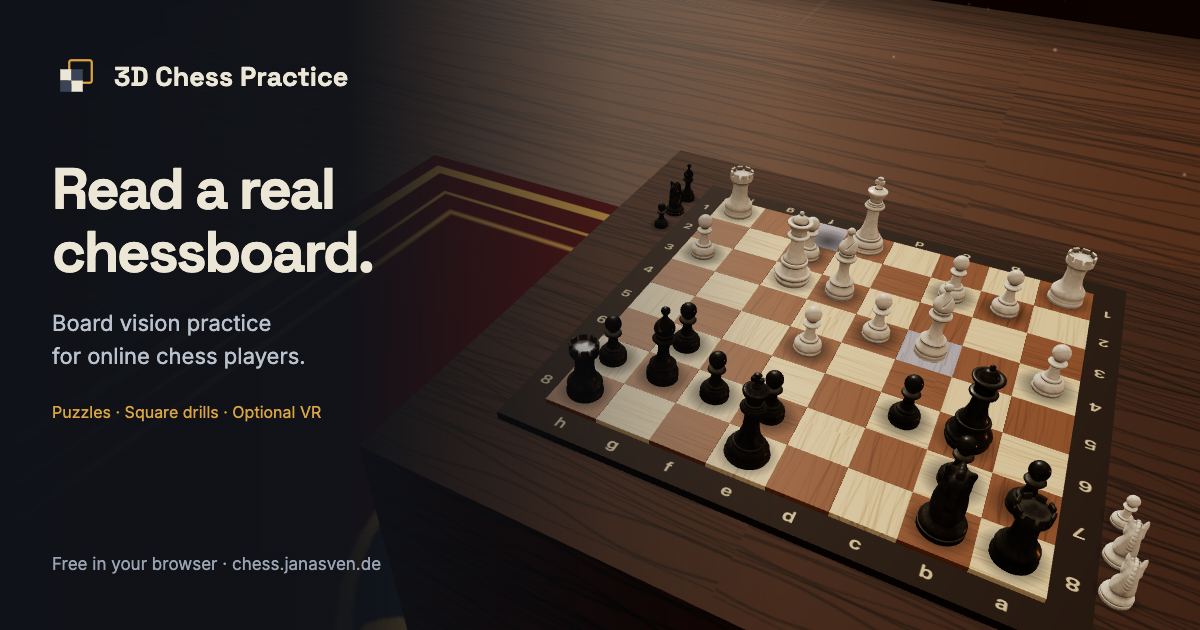
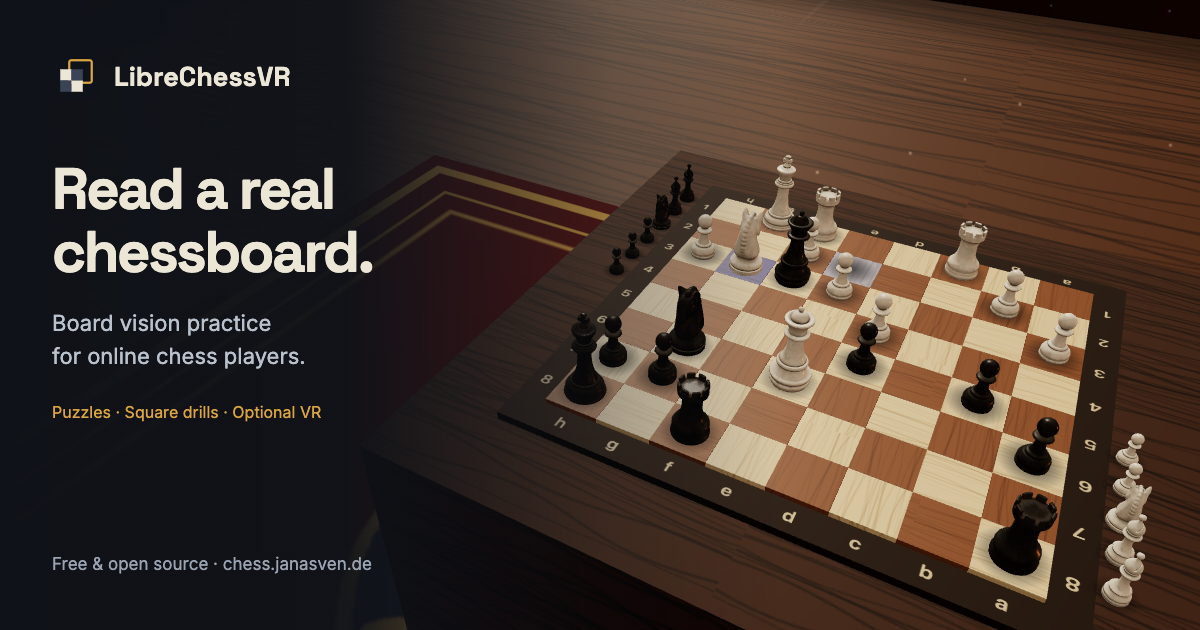
Release LibreChessVR under the MIT license
Rename the public branding, add source links and contributor setup, and credit bundled and historical third-party assets. Refresh the screenshots and sharing image. Preload the Node Response implementation before the stream watchdog test starts.

diff --git a/index.html b/index.html
@@ -3,17 +3,17 @@
 <head>
 <meta charset="utf-8">
 <meta name="viewport" content="width=device-width, initial-scale=1">
-<title>3D Chess Practice — board vision for online players</title>
+<title>LibreChessVR — board vision for online players</title>
 <meta name="description" content="A free 3D board vision practice tool for online chess players who find real boards harder to read. Puzzles, square drills and a free board. No account or headset needed.">
 <link rel="canonical" href="https://chess.janasven.de/">
 <meta property="og:type" content="website">
-<meta property="og:title" content="3D Chess Practice">
+<meta property="og:title" content="LibreChessVR">
 <meta property="og:description" content="Comfortable online, but a real board feels unfamiliar? Practice reading chess positions in 3D. Free in your browser, with optional VR.">
 <meta property="og:url" content="https://chess.janasven.de/">
 <meta property="og:image" content="https://chess.janasven.de/assets/brand/preview.png">
 <meta property="og:image:width" content="1200">
 <meta property="og:image:height" content="630">
-<meta property="og:image:alt" content="3D Chess Practice showing a chessboard from a seated perspective">
+<meta property="og:image:alt" content="LibreChessVR showing a chessboard from a seated perspective">
 <meta name="twitter:card" content="summary_large_image">
 <link rel="icon" href="assets/brand/mark.svg" type="image/svg+xml">
 <link rel="manifest" href="manifest.webmanifest">
@@ -94,14 +94,14 @@
 </head>
 <body>
 <div id="launch" hidden>
-  <img src="assets/brand/wordmark.svg" alt="3D Chess Practice — read a real chessboard">
+  <img src="assets/brand/wordmark.svg" alt="LibreChessVR — read a real chessboard">
   <p>For online chess players who find real boards harder to read. Practice puzzles and squares from a seated view.</p>
   <button id="enter" class="primary big">Enter VR</button>
   <button id="setup" class="link">Practice without VR</button>
 </div>
 <div id="ui">
-  <div class="brand"><img src="assets/brand/mark.svg" alt=""><h1>3D Chess Practice</h1></div>
-  <p class="tagline">Get comfortable reading a real board.</p>
+  <div class="brand"><img src="assets/brand/mark.svg" alt=""><h1>LibreChessVR</h1></div>
+  <p class="tagline">Board vision practice for online chess players.</p>
   <p class="intro">A 3D board vision practice tool for online chess players who find physical boards harder to read.</p>
 
   <button id="enterSide" class="primary" hidden>Enter VR</button>
@@ -196,7 +196,8 @@
     </div>
   </div>
 
-  <p class="hint">A small, free practice project. Puzzles come from Lichess; your practice results stay in this browser.</p>
+  <p class="hint">A small, free, open-source practice project. Puzzles come from Lichess; your practice results stay in this browser.</p>
+  <p class="hint"><a href="https://github.com/comino/LibreChessVR" target="_blank" rel="noopener">Source on GitHub</a> · <a href="https://github.com/comino/LibreChessVR/blob/main/LICENSE" target="_blank" rel="noopener">MIT license</a> · <a href="https://github.com/comino/LibreChessVR/blob/main/THIRD_PARTY_NOTICES.md" target="_blank" rel="noopener">Credits</a></p>
 </div>
 <script type="module" src="src/main.js"></script>
 </body>

diff --git a/test/test.js b/test/test.js
@@ -87,10 +87,12 @@ assert.equal(moveToSpeech(mv('p', 'e8', 'np', 'e8=N+', { promotion: 'n' })), 'Pa
 
 // --- stream watchdog: silent stream -> 'Stream stalled'; data keeps it alive; abort stays AbortError ---
 const enc = new TextEncoder()
+// Node loads its fetch implementation lazily. Do that before the 80 ms watchdog starts.
+const StreamResponse = globalThis.Response
 function fakeStream(chunks, everyMs) {  // sends chunks every everyMs, then stays open silently
   globalThis.fetch = async (url, { signal }) => {
     if (signal.aborted) throw signal.reason                // like real fetch
-    return new Response(new ReadableStream({
+    return new StreamResponse(new ReadableStream({
     start(c) {
       let i = 0
       const t = setInterval(() => { if (i < chunks.length) c.enqueue(enc.encode(chunks[i++])) }, everyMs)

diff --git a/sw.js b/sw.js
@@ -1,7 +1,7 @@
-// 3D Chess Practice service worker. App files: network-first (current version when online,
+// LibreChessVR service worker. App files: network-first (current version when online,
 // the cached copy offline) — never mixes old and new modules. Versioned CDN modules and fonts:
 // cache-first (their URLs change when their content does). lichess API calls are never cached.
-const CACHE = 'parallax-v19'
+const CACHE = 'parallax-v20'
 const CDN = /(^|\.)(cdn\.jsdelivr\.net|fonts\.googleapis\.com|fonts\.gstatic\.com)$/
 
 self.addEventListener('install', () => self.skipWaiting())

diff --git a/src/navigation.js b/src/navigation.js
@@ -148,7 +148,7 @@ export class Navigation {
         break
     }
     this.show({ id: this.stack.map(r => r.key || r.id).join('/'), title: route.title || TITLES[route.id],
-      path: this.stack.slice(0, -1).map(r => r.title || TITLES[r.id]).join(' / ') || '3D CHESS PRACTICE',
+      path: this.stack.slice(0, -1).map(r => r.title || TITLES[r.id]).join(' / ') || 'LIBRECHESSVR',
       sub, actions, columns,
       context: `${c.label}${c.timed ? ' · Clock running' : ''}`,
       back: { id: 'back', label: '‹ Back', disabled: this.stack.length < 2, run: () => this.back() },

diff --git a/src/panel.js b/src/panel.js
@@ -98,7 +98,7 @@ export class StatusPanel {
     } else if (s?.brand || !s) {
       drawMark(ctx, 56, 34, 64)
       ctx.textAlign = 'left'
-      this._text('3D Chess Practice', COLOR.ivory, `700 32px ${FONT.display}`, 140, 68)
+      this._text('LibreChessVR', COLOR.ivory, `700 32px ${FONT.display}`, 140, 68)
       this._text('Read a real chessboard', COLOR.mist, `500 18px ${FONT.ui}`, 142, 94)
       ctx.letterSpacing = '0px'
       ctx.textAlign = 'center'

diff --git a/test/menu-smoke.html b/test/menu-smoke.html
@@ -1,6 +1,6 @@
 <!DOCTYPE html>
 <html><head><meta charset="utf-8"><base href="/">
-<title>3D Chess Practice menu input smoke test</title>
+<title>LibreChessVR menu input smoke test</title>
 <script type="importmap">{"imports":{
   "three":"https://cdn.jsdelivr.net/npm/three@0.170.0/build/three.module.js",
   "three/addons/":"https://cdn.jsdelivr.net/npm/three@0.170.0/examples/jsm/",

diff --git a/src/theme.js b/src/theme.js
@@ -1,4 +1,4 @@
-// 3D Chess Practice design tokens (see BRAND.md). CSS mirrors these in index.html.
+// LibreChessVR design tokens (see BRAND.md). CSS mirrors these in index.html.
 
 export const COLOR = {
   ink: '#0F1218', slate: '#1A1F28', steel: '#2A313D', steelHi: '#3A4456', walnut: '#4A3020',

diff --git a/test/hunt-flow-smoke.html b/test/hunt-flow-smoke.html
@@ -3,7 +3,7 @@
 <head>
 <meta charset="utf-8">
 <base href="/">
-<title>3D Chess Practice cross-view flow bug hunt</title>
+<title>LibreChessVR cross-view flow bug hunt</title>
 <style>body { margin: 0 } iframe { width: 400px; height: 300px }</style>
 <script type="importmap">
 {

diff --git a/test/hunt-app-smoke.html b/test/hunt-app-smoke.html
@@ -3,7 +3,7 @@
 <head>
 <meta charset="utf-8">
 <base href="/">
-<title>3D Chess Practice app bug hunt</title>
+<title>LibreChessVR app bug hunt</title>
 <style>body { margin: 0 } iframe { width: 400px; height: 300px }</style>
 <script type="importmap">
 {

diff --git a/test/trainer-smoke.html b/test/trainer-smoke.html
@@ -3,7 +3,7 @@
 <head>
 <meta charset="utf-8">
 <base href="/">
-<title>3D Chess Practice trainer smoke test</title>
+<title>LibreChessVR trainer smoke test</title>
 <style>body { margin: 0 }</style>
 <script type="importmap">
 {

diff --git a/test/hunt-training-smoke.html b/test/hunt-training-smoke.html
@@ -3,7 +3,7 @@
 <head>
 <meta charset="utf-8">
 <base href="/">
-<title>3D Chess Practice training bug hunt</title>
+<title>LibreChessVR training bug hunt</title>
 <style>body { margin: 0 }</style>
 <script type="importmap">
 {

diff --git a/test/puzzle-smoke.html b/test/puzzle-smoke.html
@@ -3,7 +3,7 @@
 <head>
 <meta charset="utf-8">
 <base href="/">
-<title>3D Chess Practice puzzle smoke test</title>
+<title>LibreChessVR puzzle smoke test</title>
 <style>body { margin: 0 }</style>
 <script type="importmap">
 {
